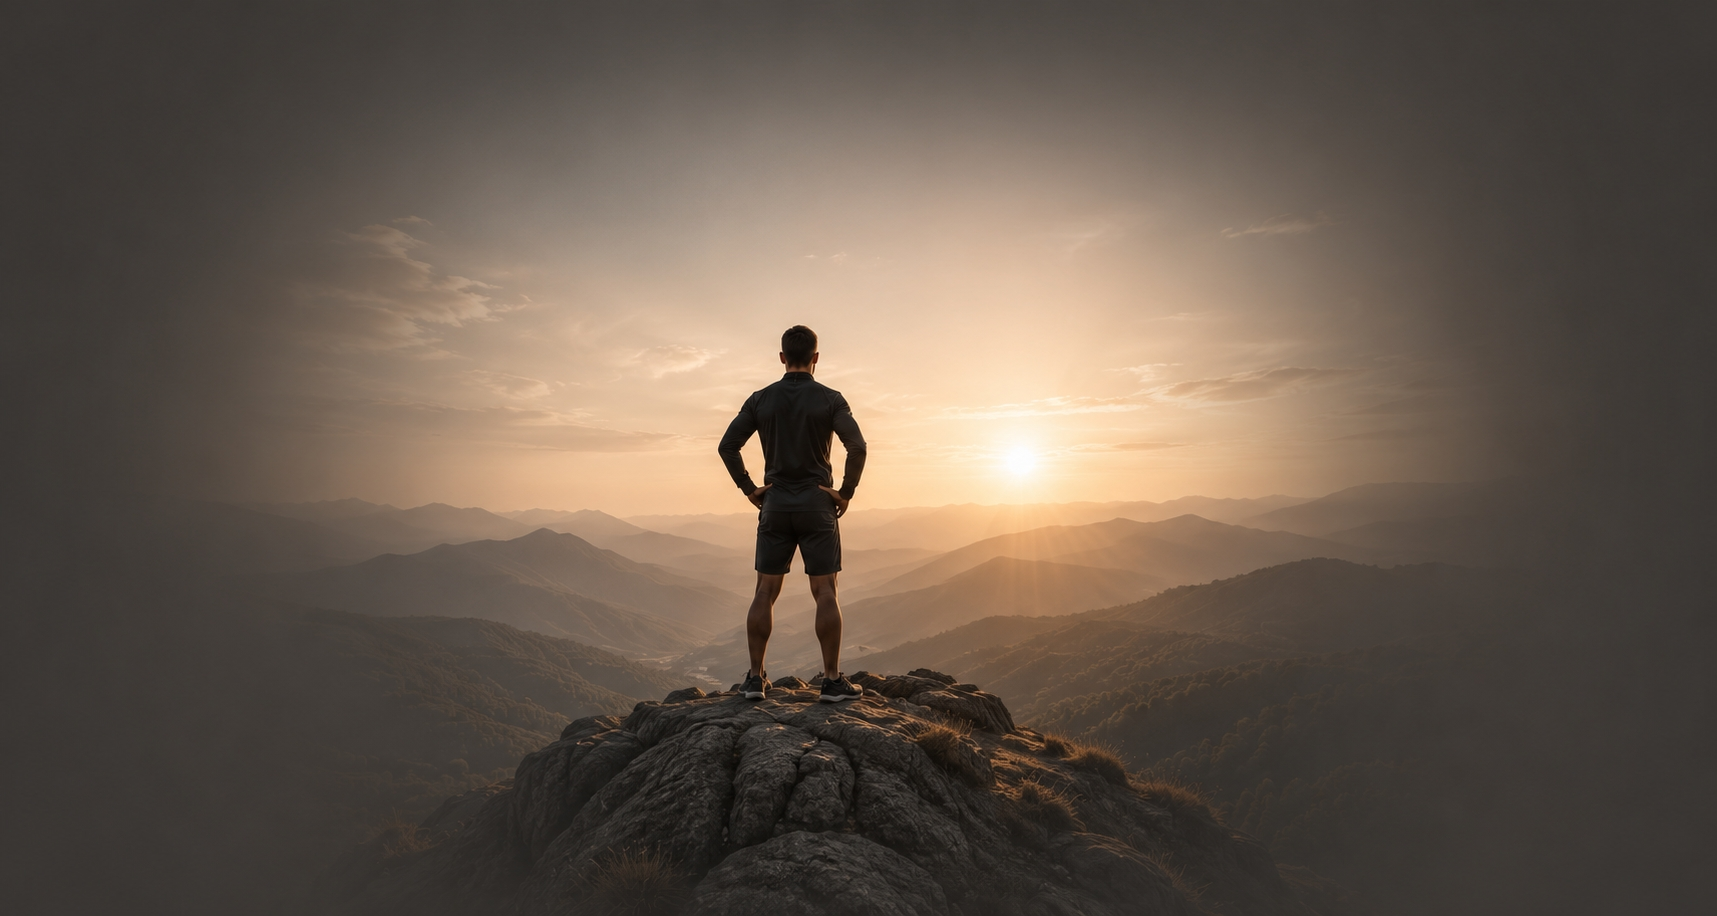
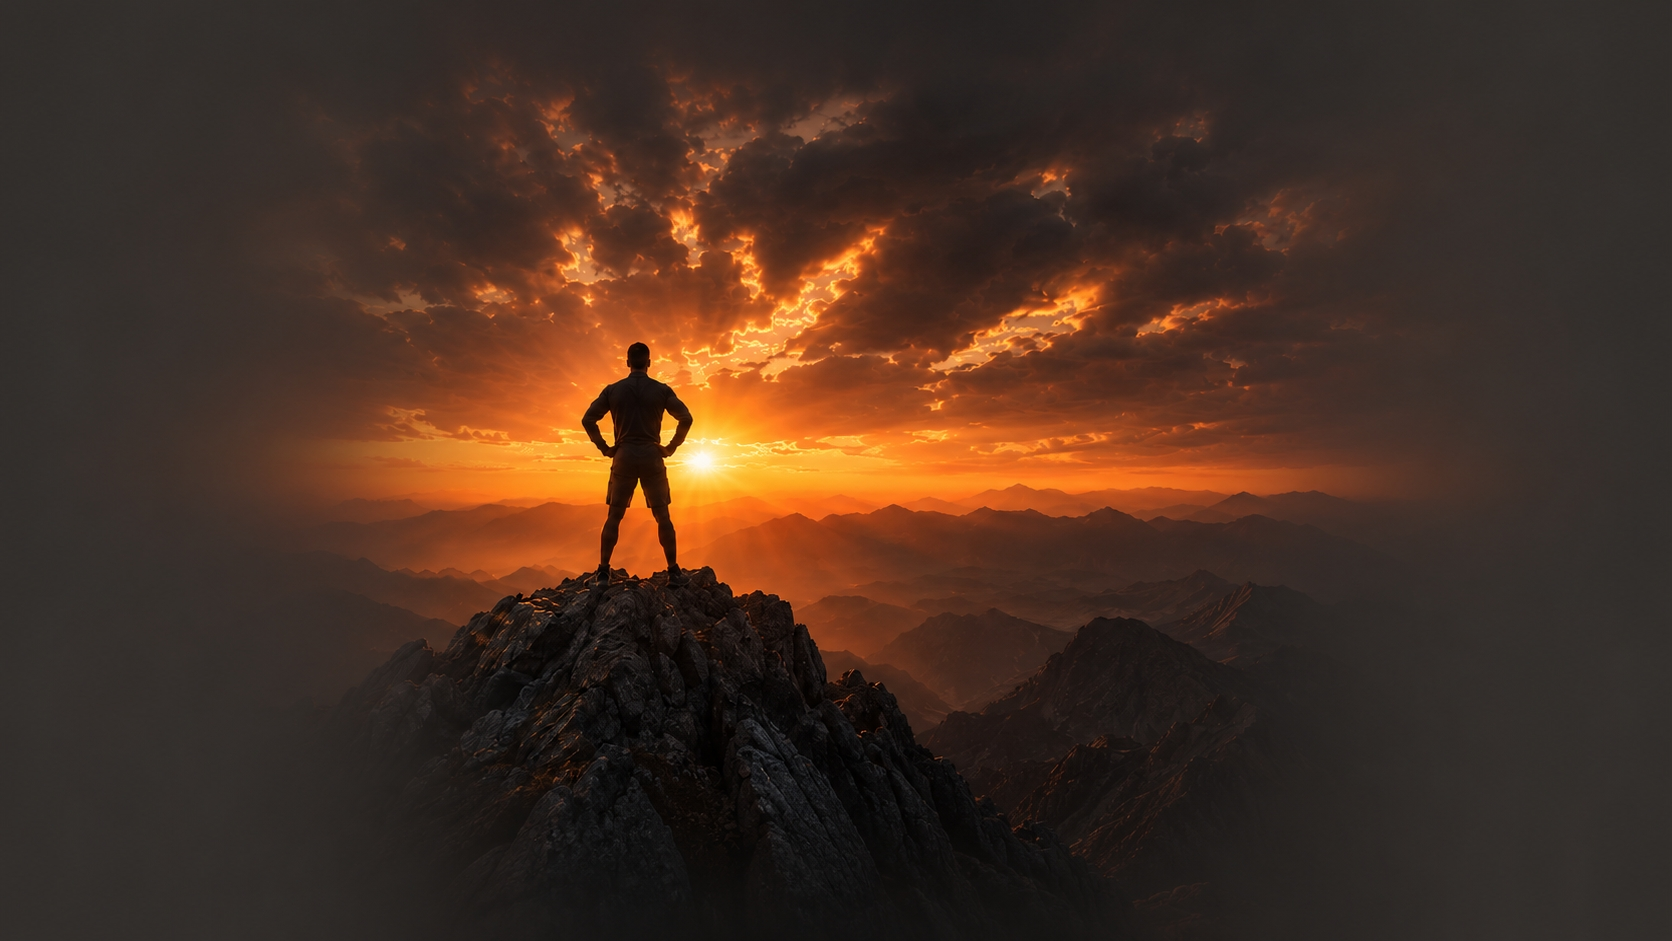
pushed a few new changes

diff --git a/src/styles.css b/src/styles.css
@@ -19,12 +19,14 @@ a { color:inherit; text-decoration:none; }
 .phone { font-size:14px; font-weight:700; letter-spacing:.03em; display:flex; align-items:center; gap:7px; }
 .button { min-width:168px; padding:14px 23px; border:2px solid; border-radius:5px; display:inline-flex; justify-content:center; font-size:13px; font-weight:700; letter-spacing:.02em; transition:transform .15s, background .15s; }
 .button:hover { transform:translateY(-2px); }
-.button-primary { color:#fffdfa; background:var(--orange); border-color:var(--orange); }
-.button-primary:hover { transform:none; background:var(--orange-dark); border-color:var(--orange-dark); }
+.button-primary { color:#fffdfa; background:#d9782b; border-color:#d9782b; }
+.button-primary:hover { transform:none; background:#b95f1e; border-color:#b95f1e; }
 .button-outline { border-color:var(--black); }
 .button-outline:hover { background:var(--black); color:#fff; }
 .hero { max-width:1200px; min-height:525px; padding:58px 66px 42px; margin:auto; display:grid; grid-template-columns:1.04fr .96fr; align-items:center; gap:45px; overflow:visible; }
 .eyebrow { color:var(--orange); font-family:"Barlow Condensed",sans-serif; font-size:17px; font-weight:700; letter-spacing:.06em; margin:0 0 18px; padding-bottom:15px; border-bottom:2px solid var(--orange); }
+.hero-copy .eyebrow { position:relative; z-index:2; }
+.hero-copy .eyebrow::after { content:""; position:absolute; left:100%; bottom:-2px; width:calc(92.31% + 45px); height:2px; background:var(--orange); }
 h1,h2 { font-family:"Barlow Condensed",Impact,sans-serif; letter-spacing:.015em; font-weight:800; line-height:.92; }
 h1 { font-size:clamp(58px, 6.2vw, 88px); letter-spacing:-.025em; margin:0 0 22px; }
 .lead { max-width:500px; font-size:17px; color:#252525; line-height:1.75; margin:0 0 29px; }
@@ -75,6 +77,7 @@ footer .contact-link { color:#bbb; }
 
 @media (max-width:800px) {
   .site-header { padding:13px 20px; grid-template-columns:1fr auto; gap:12px; }
+  .hero-copy .eyebrow::after { display:none; }
   .brand { min-width:0; height:55px; gap:6px; }
   .brand-mark { width:55px; height:55px; }
   .wordmark { height:55px; }
